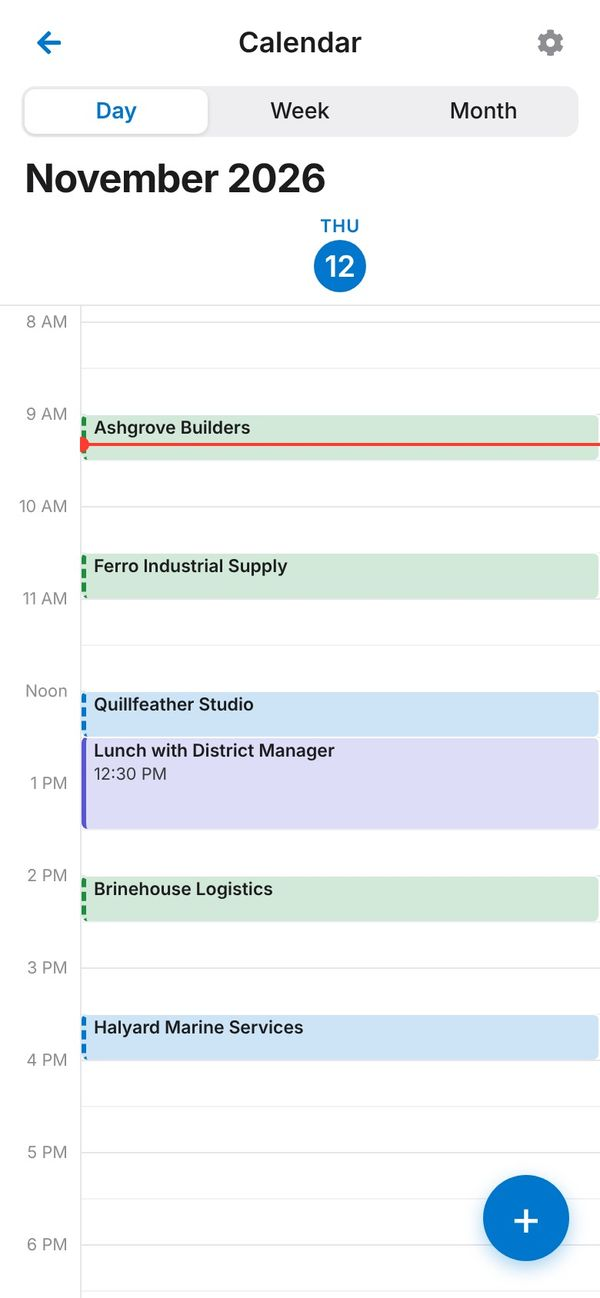
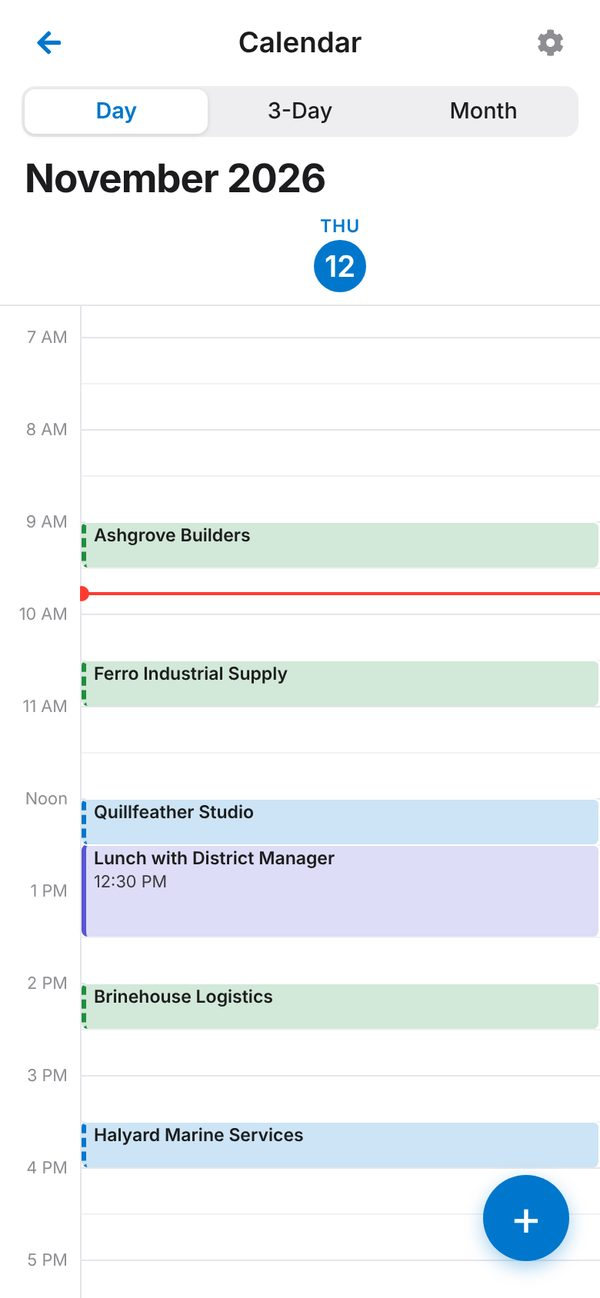
Website: Make It Yours and Midnight sections, new screenshots (3-Day calendar), save screenshot tool
Claude-Session: https://claude.ai/code/session_01GU8ZYKRjvK8i7Sf4zMaKCJ

diff --git a/tools/website-demo/seed.js b/tools/website-demo/seed.js
@@ -1,0 +1,95 @@
+// tools/website-demo/seed.js — MADE-UP, industry-neutral demo data for the website screenshots and demo video
+// (founder rule: no food-centric names, nothing from his real CRM; 555 phone numbers; invented businesses).
+// "Today" is fixed by the screenshot script (Thu Nov 12, 2026), so dates here are relative to it.
+// Not part of the app build.
+export function websiteDemo(today = new Date(2026, 10, 12)) {
+  const t = today;
+  const k = (n) => { const d = new Date(t.getFullYear(), t.getMonth(), t.getDate() + n); return `${d.getFullYear()}-${String(d.getMonth() + 1).padStart(2, '0')}-${String(d.getDate()).padStart(2, '0')}`; };
+  const ts = (n, h, m = 0) => new Date(t.getFullYear(), t.getMonth(), t.getDate() + n, h, m).toLocaleString();
+  const ago = (days) => new Date(t.getFullYear(), t.getMonth(), t.getDate() - days, 9).getTime(); // id = when it was added
+
+  const customers = [
+    { id: 1, name: 'Ashgrove Builders', accountNumber: 'AC123456', street: '123 Main St', town: 'Ashford', state: 'OH', zip: '43346', address: '123 Main St, Ashford, OH 43346', website: 'www.ashgrovebuilders.com',
+      contacts: [
+        { title: 'Purchasing', name: 'John Smith', phone: '5085551234', textPhone: '7745550101', email: 'john@ashgrovebuilders.com' },
+        { title: 'GM', name: 'Sarah Lee', phone: '5085555678', textPhone: '', email: 'sarah@ashgrovebuilders.com' },
+      ],
+      visitDays: ['Thu'], visitTime: 540, visitFrequency: 'weekly', deliveryDays: ['Mon', 'Fri'], callTime: 480, onlineOrdering: true, callNote: 'Text John before 8. He’s in meetings after.',
+      notes: [
+        { text: 'Family-owned since 1998. John makes the buying decisions.', category: 'Background', timestamp: ts(-60, 9) },
+        { text: 'Second location opening in December. Wants pricing for both.', category: 'Visit', timestamp: ts(-1, 11, 20) },
+        { text: 'Send updated pricing to John', category: 'Follow-up', done: false, due: k(0), timestamp: ts(-1, 11, 25) },
+        { text: 'Drop off the new catalog', category: 'Follow-up', done: false, due: k(1), timestamp: ts(-1, 11, 30) },
+      ] },
+    { id: 2, name: 'Brinehouse Logistics', accountNumber: 'AC100902', street: '2 Water St', town: 'Seabright', state: 'OH', zip: '43738', address: '2 Water St, Seabright, OH 43738',
+      contacts: [{ title: 'Operations', name: 'Pete Alves', phone: '4195550131', textPhone: '', email: 'pete@brinehouselogistics.com' }],
+      visitDays: ['Thu'], visitTime: 840, visitFrequency: 'weekly', deliveryDays: ['Fri', 'Sat'], callTime: 570, onlineOrdering: false, callNote: 'Usually orders by 9:30.', notes: [] },
+    { id: 3, name: 'Ferro Industrial Supply', accountNumber: 'AC100777', street: '10 Bay St', town: 'Millbrook', state: 'OH', zip: '43720', address: '10 Bay St, Millbrook, OH 43720',
+      contacts: [{ title: 'Owner', name: 'Maria Rossi', phone: '6145550177', textPhone: '', email: 'maria@ferroindustrial.com' }],
+      visitDays: ['Thu'], visitTime: 630, visitFrequency: 'weekly', deliveryDays: ['Fri'], callTime: 540, onlineOrdering: true, callNote: 'Send updated price sheet.', notes: [] },
+    { id: 4, name: 'Juniper Street Dental', accountNumber: 'AC100845', street: '18 Juniper St', town: 'Riverton', state: 'OH', zip: '43350', address: '18 Juniper St, Riverton, OH 43350',
+      contacts: [{ title: 'Office Manager', name: 'Lindsay Carter', phone: '3305550164', textPhone: '3305550165', email: '' }],
+      visitDays: ['Fri'], visitTime: 630, visitFrequency: 'weekly', deliveryDays: ['Fri'], callTime: 600, onlineOrdering: false, callNote: 'Follow up on the demo.', notes: [] },
+    { id: 5, name: 'Kettlemark Print & Sign', accountNumber: 'AC100915', street: '450 Main St', town: 'Kingsbridge', state: 'OH', zip: '43302', address: '450 Main St, Kingsbridge, OH 43302',
+      contacts: [{ title: 'Manager', name: 'Kevin Doyle', phone: '6145550118', textPhone: '', email: '' }],
+      visitDays: ['Tue'], visitTime: 600, visitFrequency: 'weekly', deliveryDays: ['Wed'], callTime: 510, onlineOrdering: true, callNote: 'Ask about the spring promo.', notes: [] },
+    { id: ago(35), name: 'Northgate Auto Group', accountNumber: 'AC100933', street: '77 Broadway', town: 'Riverton', state: 'OH', zip: '43350', address: '77 Broadway, Riverton, OH 43350',
+      contacts: [{ title: 'Service Manager', name: 'Rob Mendes', phone: '3305550190', textPhone: '', email: '' }],
+      visitDays: [], visitFrequency: 'weekly', deliveryDays: ['Wed'], callTime: 660, onlineOrdering: false, callNote: '', notes: [] },
+  ];
+  const northgate = customers[5].id;
+
+  const prospects = [
+    { id: 11, name: 'Quillfeather Studio', group: 'Quillfeather Studio', stage: 'hot', street: '85 Centre St', town: 'Kingsbridge', state: 'OH', zip: '43302', address: '85 Centre St, Kingsbridge, OH 43302',
+      contacts: [{ title: 'Owner', name: 'Dana Price', phone: '5085867788', textPhone: '', email: 'dana@quillfeatherstudio.com' }],
+      deliveryDays: ['Thu'], visitTime: 720, visitFrequency: 'weekly', visitLength: 30,
+      notes: [
+        { text: 'Opened 2 years ago. Buying from a competitor right now.', category: 'Background', timestamp: ts(-20, 10) },
+        { text: 'Liked our service plan. Wants a demo for her team.', category: 'Visit', timestamp: ts(-2, 12, 15) },
+        { text: 'Send the proposal by Friday', category: 'Follow-up', done: false, due: k(2), timestamp: ts(-2, 12, 20) },
+      ] },
+    { id: 12, name: 'Quillfeather Studio', group: 'Quillfeather Studio', stage: 'hot', street: '40 River Rd', town: 'Riverton', state: 'OH', zip: '43350', address: '40 River Rd, Riverton, OH 43350',
+      contacts: [], deliveryDays: [], visitFrequency: 'weekly', notes: [] },
+    { id: 13, name: 'Quillfeather Studio', group: 'Quillfeather Studio', stage: 'hot', street: '9 Elm St', town: 'Elmwood', state: 'OH', zip: '43360', address: '9 Elm St, Elmwood, OH 43360',
+      contacts: [], deliveryDays: [], visitFrequency: 'weekly', notes: [] },
+    { id: 14, name: 'Halyard Marine Services', stage: 'ready', street: '5 Birch St', town: 'Pine Hollow', state: 'OH', zip: '43347', address: '5 Birch St, Pine Hollow, OH 43347',
+      contacts: [{ title: 'GM', name: 'Erin Cole', phone: '4195550109', textPhone: '', email: 'erin@halyardmarine.com' }],
+      deliveryDays: ['Thu'], visitTime: 930, visitFrequency: 'weekly',
+      notes: [{ text: 'Send credit application', category: 'Follow-up', done: false, due: k(-1), timestamp: ts(-3, 16) }] },
+    { id: 15, name: 'Copper Bell Fitness', stage: 'warm', street: '300 Union St', town: 'North Avalon', state: 'OH', zip: '43310', address: '300 Union St, North Avalon, OH 43310',
+      contacts: [{ title: 'Owner', name: 'Tasha Greene', phone: '6145550123', textPhone: '', email: '' }], deliveryDays: ['Fri'], visitTime: 600, visitFrequency: 'weekly',
+      notes: [{ text: 'Interested once their lease renews in January.', category: 'Visit', timestamp: ts(-6, 10, 30) }] },
+    { id: ago(52), name: 'Harbor Light Hotel', stage: 'warming', street: '1 Harbor Way', town: 'Seabright', state: 'OH', zip: '43738', address: '1 Harbor Way, Seabright, OH 43738',
+      contacts: [], deliveryDays: [], visitFrequency: 'weekly', notes: [] },
+    { id: 17, name: 'Ironwood Property Mgmt', stage: 'cold', street: '12 Pleasant St', town: 'Port Mercer', state: 'OH', zip: '43380', address: '12 Pleasant St, Port Mercer, OH 43380',
+      contacts: [], deliveryDays: [], visitFrequency: 'weekly',
+      notes: [{ text: 'Left a card with the front desk.', category: 'Contacted', timestamp: ts(-9, 14) }] },
+    { id: ago(41), name: 'Larkspur Salon & Spa', stage: 'warm', street: '4 Main St', town: 'Elmwood', state: 'OH', zip: '43360', address: '4 Main St, Elmwood, OH 43360',
+      contacts: [], deliveryDays: [], visitFrequency: 'weekly', notes: [] },
+  ];
+
+  const events = [
+    { id: 901, title: 'Lunch with District Manager', date: k(0), start: 750, end: 810, color: '#5856d6', location: 'Elmwood Office', showInItinerary: true },
+    { id: 902, title: 'Product demo at Quillfeather', date: k(1), start: 840, end: 900, color: '#34c759', location: '85 Centre St, Kingsbridge, OH 43302', accountType: 'prospect', accountId: 11, accountName: 'Quillfeather Studio' },
+    { id: 903, title: 'Team meeting', date: k(-1), start: 480, end: 540, color: '#5856d6', location: '' },
+    { id: 904, title: 'Quarterly review', date: k(6), start: 600, end: 660, color: '#0077cc', location: '' },
+  ];
+
+  return {
+    crumb_contacts: JSON.stringify(customers),
+    crumb_prospects: JSON.stringify(prospects),
+    crumb_calendar_events: JSON.stringify(events),
+    visitData: JSON.stringify([]),
+    crumb_itinerary_done: JSON.stringify({ [k(0)]: ['c-1'] }),
+    crumb_itinerary_locks: JSON.stringify({ [k(0)]: { 'c-1': 540, 'e-901': 750 } }),
+    crumb_todos: JSON.stringify([
+      { id: 1, text: 'Expense report', due: k(0), done: false },
+      { id: 2, text: 'Update the price sheet', due: k(5), done: false },
+      { id: 3, text: 'Call Rob back about the quote', due: k(1), done: false, accountType: 'customer', accountId: northgate, accountName: 'Northgate Auto Group' },
+    ]),
+    crumb_calendar_settings: JSON.stringify({ eventLength: 60, startHour: 7, showVisits: true, showStops: true, defaultColor: '#34c759' }),
+    crumb_callsheet_ordered: JSON.stringify({ [k(0)]: [1, 3, 'no:4'] }),
+    crumb_notify_settings: JSON.stringify({ enabled: true }),
+    crumb_last_backup: new Date(t.getFullYear(), t.getMonth(), t.getDate() - 1, 18).toISOString(), // plain text
+  };
+}

diff --git a/tools/website-demo/mini-router.js b/tools/website-demo/mini-router.js
@@ -1,0 +1,72 @@
+// tools/website-demo/mini-router.js — a tiny stand-in for react-router-dom, used ONLY to take website
+// screenshots of the real app without installing packages. Not part of the app build.
+import React, { createContext, useContext, useEffect, useState } from 'react';
+
+const Ctx = createContext({ path: '/', state: null, params: {} });
+const listeners = new Set();
+let current = { path: window.location.pathname + window.location.search, state: null };
+const emit = () => listeners.forEach((f) => f({ ...current }));
+
+export function BrowserRouter({ children }) {
+  const [loc, setLoc] = useState(current);
+  useEffect(() => {
+    listeners.add(setLoc);
+    const onPop = () => { current = { path: window.location.pathname + window.location.search, state: null }; emit(); };
+    window.addEventListener('popstate', onPop);
+    return () => { listeners.delete(setLoc); window.removeEventListener('popstate', onPop); };
+  }, []);
+  return React.createElement(Ctx.Provider, { value: { ...loc, params: {} } }, children);
+}
+
+function match(pattern, path) {
+  const p = path.split('?')[0];
+  const a = pattern.split('/').filter(Boolean);
+  const b = p.split('/').filter(Boolean);
+  if (a.length !== b.length) return null;
+  const params = {};
+  for (let i = 0; i < a.length; i++) {
+    if (a[i].startsWith(':')) params[a[i].slice(1)] = decodeURIComponent(b[i]);
+    else if (a[i] !== b[i]) return null;
+  }
+  return params;
+}
+
+export function Routes({ children }) {
+  const loc = useContext(Ctx);
+  let found = null;
+  React.Children.forEach(children, (ch) => {
+    if (found || !ch || !ch.props) return;
+    const params = ch.props.path === '*' ? {} : match(ch.props.path, loc.path);
+    if (params) found = React.createElement(Ctx.Provider, { value: { ...loc, params } }, ch.props.element);
+  });
+  return found;
+}
+export function Route() { return null; }
+
+export function useNavigate() {
+  return (to, opts = {}) => {
+    if (typeof to === 'number') { window.history.go(to); return; }
+    current = { path: to, state: opts.state || null };
+    if (opts.replace) window.history.replaceState({}, '', to); else window.history.pushState({}, '', to);
+    emit();
+  };
+}
+export function useLocation() {
+  const loc = useContext(Ctx);
+  const [pathname, search = ''] = loc.path.split('?');
+  return { pathname, search: search ? '?' + search : '', state: loc.state, hash: '' };
+}
+export function useParams() { return useContext(Ctx).params; }
+export function useSearchParams() {
+  const loc = useLocation();
+  return [new URLSearchParams(loc.search), () => {}];
+}
+export function Navigate({ to, replace }) {
+  const nav = useNavigate();
+  useEffect(() => { nav(to, { replace }); }, [to]); // eslint-disable-line
+  return null;
+}
+export function Link({ to, children, ...rest }) {
+  const nav = useNavigate();
+  return React.createElement('a', { href: to, onClick: (e) => { e.preventDefault(); nav(to); }, ...rest }, children);
+}

diff --git a/website/features.html b/website/features.html
@@ -53,6 +53,8 @@
         <a href="#calendar">Calendar &amp; Reminders</a>
         <a href="#notes">Notes &amp; To-Dos</a>
         <a href="#call-sheet">Call Sheet</a>
+        <a href="#make-it-yours">Make It Yours</a>
+        <a href="#midnight">Midnight</a>
       </nav>
     </div>
   </section>
@@ -127,6 +129,36 @@
       <div class="fp-device" aria-label="Screenshots">
         <div class="fp-tablet"><img src="/img/f/callsheet-tablet.jpg" alt="Call Sheet on a tablet: every account ordering today with contact, phone, call time, call notes, Ordered and Did Not Order" loading="lazy" width="1600" height="1112"></div>
         <img class="fp-phone" src="/img/f/callsheet-phone.jpg" alt="The same customer on a phone, with contacts, delivery days and call time" loading="lazy" width="600" height="1298">
+      </div>
+    </div>
+  </section>
+
+  <section id="make-it-yours" class="fp-section">
+    <div class="wrap fp-grid">
+      <div class="fp-text">
+        <span class="eyebrow">Make It Yours</span>
+        <h2>Your Workday. Your Way.</h2>
+        <p class="fp-sum">Customize it to fit the way you work.</p>
+      </div>
+      <div class="fp-shots" aria-label="Screenshots">
+        <figure><img src="/img/c/settings.jpg" alt="Settings with every tool listed: Notifications, Appearance, Calendar, Daily Stops, Call Sheet, To-Do, Note Labels" loading="lazy" width="600" height="1298"><figcaption>Settings</figcaption></figure>
+        <figure><img src="/img/c/labels.jpg" alt="Note Labels: the labels in use, more to pick from, and a box to add your own" loading="lazy" width="600" height="1298"><figcaption>Note Labels</figcaption></figure>
+        <figure><img src="/img/c/calsettings.jpg" alt="Calendar settings: event length, start time, what shows and color names" loading="lazy" width="600" height="1298"><figcaption>Calendar Settings</figcaption></figure>
+      </div>
+    </div>
+  </section>
+
+  <section id="midnight" class="fp-section">
+    <div class="wrap fp-grid">
+      <div class="fp-text">
+        <span class="eyebrow">Midnight</span>
+        <h2>Easy On The Eyes.</h2>
+        <p class="fp-sum">Prefer it dark? Switch to Midnight in Settings.</p>
+      </div>
+      <div class="fp-shots" aria-label="Screenshots">
+        <figure><img src="/img/c/home-midnight.jpg" alt="Home in Midnight colors" loading="lazy" width="600" height="1298"><figcaption>Home</figcaption></figure>
+        <figure><img src="/img/c/stops-midnight.jpg" alt="Daily Stops in Midnight colors" loading="lazy" width="600" height="1298"><figcaption>Daily Stops</figcaption></figure>
+        <figure><img src="/img/c/month-midnight.jpg" alt="The Month calendar in Midnight colors" loading="lazy" width="600" height="1298"><figcaption>Calendar</figcaption></figure>
       </div>
     </div>
   </section>
